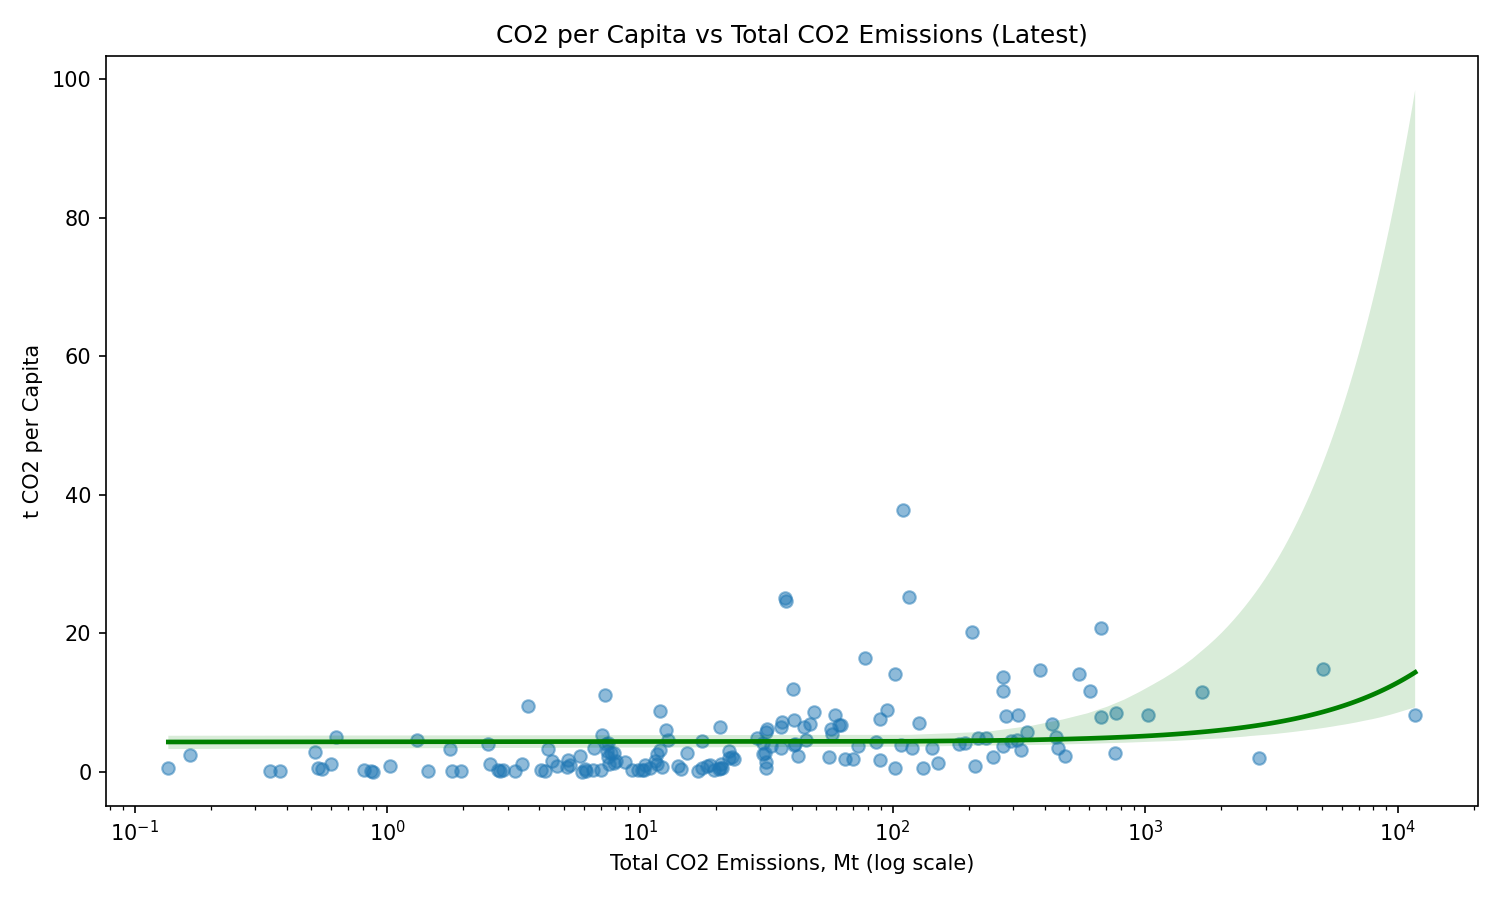
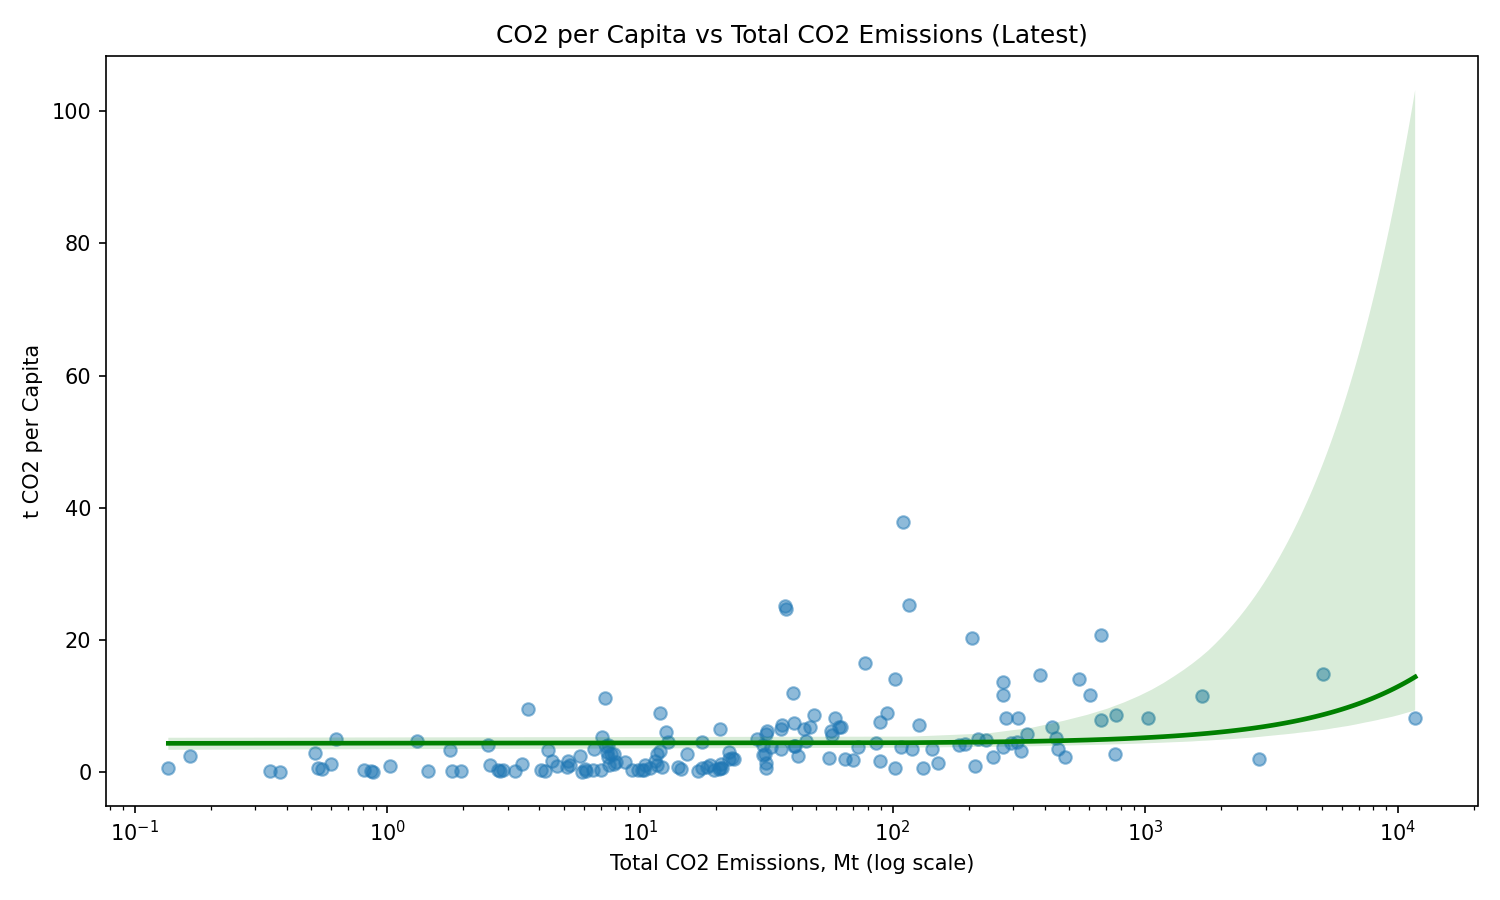
Update Docker reproducibility instructions

diff --git a/README.md b/README.md
@@ -2,9 +2,9 @@
 
 This project is a Python reproduction of the original R-based CO2 Global Emissions Analysis project.
 
-The project downloads the Our World in Data CO2 dataset, cleans and prepares the data, generates visualizations, performs a regression analysis, and produces a final report.
+The project downloads the Our World in Data CO2 dataset, cleans and prepares the data, generates visualizations, performs a regression analysis, and produces a final Quarto HTML report.
 
-The entire workflow is reproducible and can be executed either locally or inside a Docker container.
+The workflow can be reproduced either locally or inside a Docker container.
 
 ---
 
@@ -31,7 +31,6 @@ The dataset contains information about:
 ```text
 co2-emissions-python-RR-Project/
 ├── src/
-│   ├── __init__.py
 │   ├── download_data.py
 │   ├── clean_data.py
 │   ├── plots.py
@@ -73,17 +72,19 @@ python3 -m venv .venv
 source .venv/bin/activate
 ```
 
-Install required packages:
+Install the required Python packages:
 
 ```bash
 pip install -r requirements.txt
 ```
 
+Quarto is also required to render the final HTML report locally.
+
 ---
 
-## Running the Complete Workflow
+## Running the Complete Workflow Locally
 
-Execute the entire project:
+Run the full project workflow:
 
 ```bash
 make all
@@ -92,50 +93,114 @@ make all
 This command automatically:
 
 1. Downloads the dataset
-2. Cleans the data
+2. Cleans and prepares the data
 3. Generates visualizations
 4. Runs the regression analysis
-5. Produces the final report
+5. Generates the report content
+6. Renders the final Quarto HTML report
+
+The final report is saved at:
+
+```text
+reports/project_report.html
+```
 
 ---
 
 ## Running Step by Step
 
-### Download Dataset
+Download the dataset:
 
 ```bash
 python src/download_data.py
 ```
 
-### Clean Data
+Clean the data:
 
 ```bash
 python src/clean_data.py
 ```
 
-### Generate Visualizations
+Generate visualizations:
 
 ```bash
 python src/plots.py
 ```
 
-### Run Regression Analysis
+Run the regression analysis:
 
 ```bash
 python src/analysis.py
 ```
 
-### Generate Markdown Report
+Generate the Markdown report:
 
 ```bash
 python src/generate_report.py
 ```
 
+Render the Quarto HTML report:
+
+```bash
+quarto render reports/project_report.qmd --to html
+```
+
+---
+
+## Running with Docker
+
+Docker can reproduce the complete workflow without installing the Python packages or Quarto directly on the local machine.
+
+First, build the Docker image from the project folder:
+
+```bash
+docker build -t co2-emissions-python-rr .
+```
+
+Then run the complete workflow inside Docker:
+
+```bash
+docker run --rm -v "$(pwd)":/app -w /app co2-emissions-python-rr make all
+```
+
+This command runs the full project workflow:
+
+1. Downloads the dataset
+2. Cleans and prepares the data
+3. Generates figures
+4. Runs the regression analysis
+5. Generates the report
+6. Renders the final HTML file
+
+The generated files are saved in the project folder:
+
+```text
+reports/project_report.html
+outputs/figures/
+outputs/tables/
+```
+
+The `--rm` option removes the temporary Docker container after the workflow finishes.
+
+The `-v "$(pwd)":/app` option connects the current project folder to the Docker container, so the generated outputs are saved back to the local project folder.
+
+The `-w /app` option sets the working directory inside the Docker container.
+
+---
+
+## Running with Docker Compose
+
+The project can also be run with Docker Compose:
+
+```bash
+docker compose up --build
+```
+
+This builds the Docker image and runs the full workflow using the configuration in `docker-compose.yml`.
+
 ---
 
 ## Generated Outputs
-
-### Figures
 
 Generated figures are saved in:
 
@@ -143,7 +208,7 @@ Generated figures are saved in:
 outputs/figures/
 ```
 
-The project generates:
+The project generates visualizations including:
 
 1. Global Average CO2 per Capita Over Time
 2. GDP per Capita vs CO2 per Capita
@@ -157,8 +222,6 @@ The project generates:
 10. Year-over-Year Change in Global Average CO2 per Capita
 11. CO2 per Capita vs Total CO2 Emissions
 
-### Regression Results
-
 Regression outputs are saved in:
 
 ```text
@@ -170,6 +233,12 @@ Files:
 ```text
 regression_summary.txt
 regression_coefficients.csv
+```
+
+The final Quarto report is saved as:
+
+```text
+reports/project_report.html
 ```
 
 ---
@@ -190,85 +259,7 @@ The resulting model achieved:
 R² ≈ 0.556
 ```
 
-indicating a moderate positive relationship between GDP per capita and CO2 emissions per capita.
-
----
-
-## Quarto Report
-
-The project includes a Quarto report summarizing the complete analysis.
-
-Generate the report:
-
-```bash
-quarto render reports/project_report.qmd --to html
-```
-
-The generated report is saved as:
-
-```text
-reports/project_report.html
-```
-
-The report contains:
-
-- Project overview
-- Dataset description
-- Workflow explanation
-- Generated visualizations
-- Regression analysis summary
-- Final conclusions
-
----
-
-## Docker Reproducibility
-
-Build and run the complete workflow inside Docker:
-
-```bash
-docker compose up --build
-```
-
-This command automatically:
-
-1. Downloads the dataset
-2. Cleans the data
-3. Generates all visualizations
-4. Runs the regression analysis
-5. Produces the final report
-
-The project was designed to be fully reproducible inside a Docker container.
-
----
-
-## Docker Hub Image
-
-The project Docker image is publicly available on Docker Hub:
-
-```text
-aykhansafarli/co2-emissions-python-rr-project:latest
-```
-
-Pull the image:
-
-```bash
-docker pull aykhansafarli/co2-emissions-python-rr-project:latest
-```
-
-Run the image:
-
-```bash
-docker run aykhansafarli/co2-emissions-python-rr-project:latest
-```
-
-The container executes the complete workflow:
-
-* Download the dataset
-* Clean and process the data
-* Generate visualizations
-* Run regression analysis
-* Generate reports
-* Render the Quarto HTML report
+This indicates a moderate positive relationship between GDP per capita and CO2 emissions per capita.
 
 ---
 
@@ -308,4 +299,4 @@ This repository contains:
 - Visualizations
 - Documentation
 
-allowing the entire project to be reproduced on any machine with Python or Docker installed.
+Together, these files allow the full project to be reproduced on any machine with either local Python and Quarto installation or Docker.

diff --git a/reports/generated_report.md b/reports/generated_report.md
@@ -43,8 +43,8 @@ The regression model estimates the relationship between GDP per capita and CO2 e
 Dep. Variable:                 co2_pc   R-squared:                       0.556
 Model:                            OLS   Adj. R-squared:                  0.553
 Method:                 Least Squares   F-statistic:                     202.6
-Date:                Mon, 08 Jun 2026   Prob (F-statistic):           2.41e-30
-Time:                        21:10:02   Log-Likelihood:                -447.37
+Date:                Wed, 10 Jun 2026   Prob (F-statistic):           2.41e-30
+Time:                        19:23:19   Log-Likelihood:                -447.37
 No. Observations:                 164   AIC:                             898.7
 Df Residuals:                     162   BIC:                             904.9
 Df Model:                           1                                         